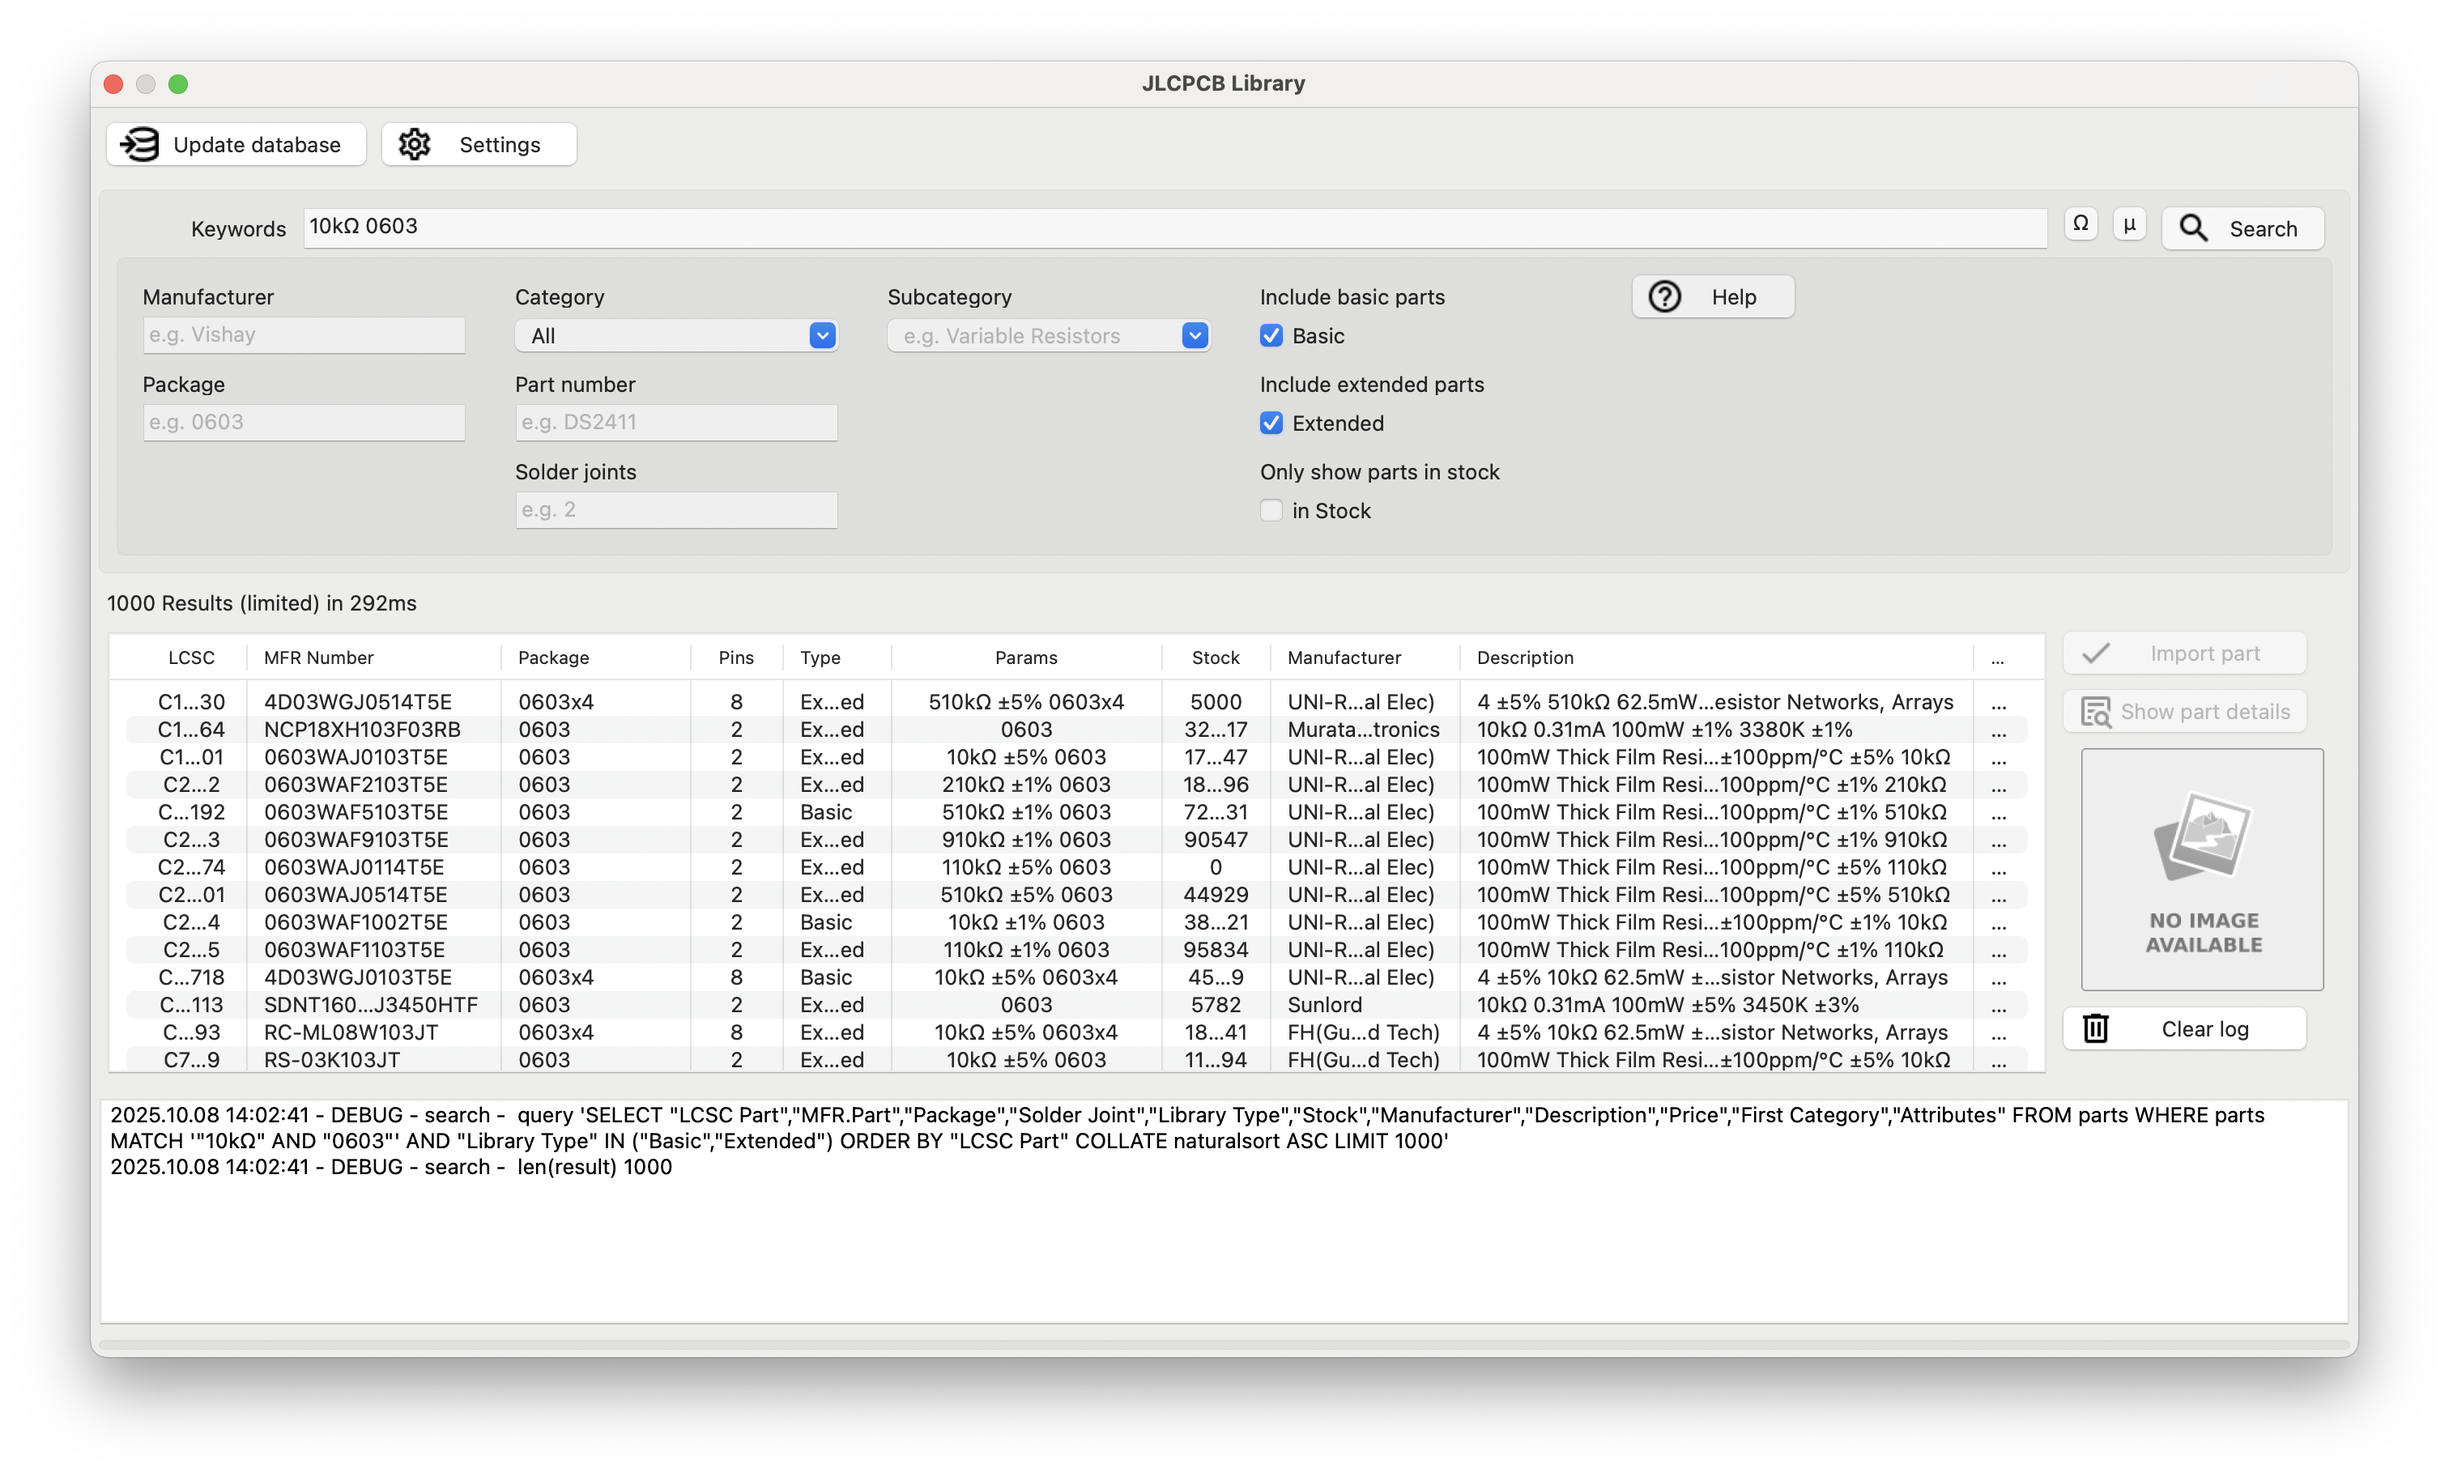
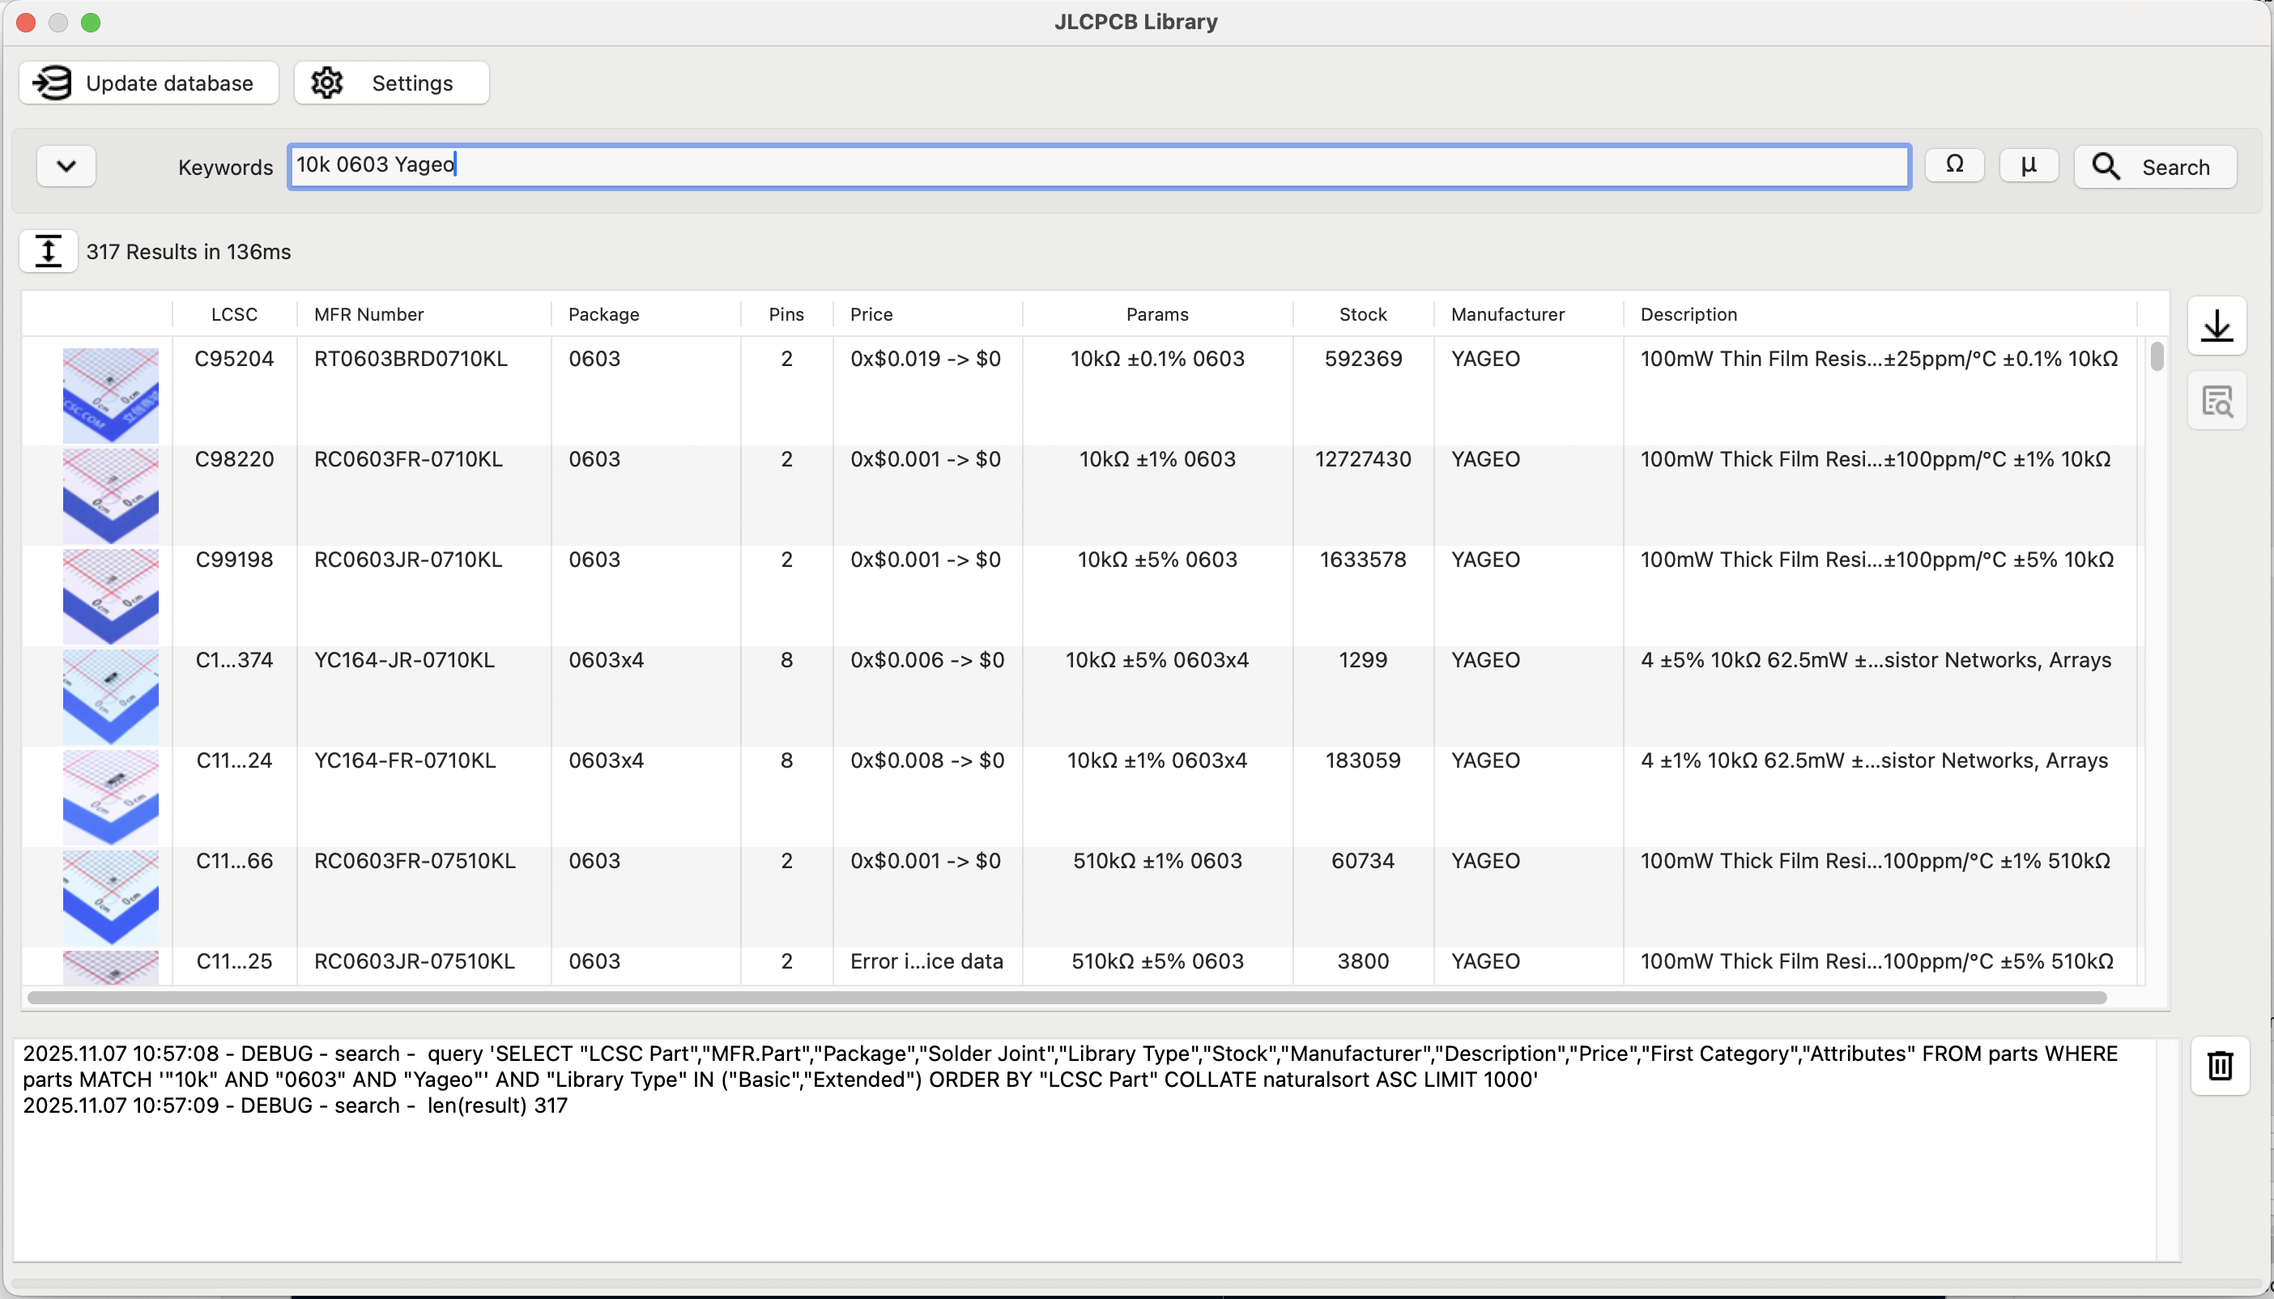
Update screenshots

diff --git a/partselector.py b/partselector.py
@@ -1154,7 +1154,7 @@ class PartSelectorDialog(wx.Dialog):
 
             main = self.part_list.GetMainWindow() # if hasattr(self.part_list, 'GetMainWindow') else self.part_list
             size = main.GetClientSize()
-            w, h = size.GetWidth(), size.GetHeight()
+            h = size.GetHeight()
            
             # Determine first and last visible rows by hit-testing points
             # Use a few sample x positions within the first column area
@@ -1235,9 +1235,6 @@ class PartSelectorDialog(wx.Dialog):
         except Exception:
             items = []
         try:
-            total_rows = len(self.part_list_model.get_all()) if hasattr(self.part_list_model, 'get_all') else -1
-            main = self.part_list.GetMainWindow() if hasattr(self.part_list, 'GetMainWindow') else self.part_list
-            view_h = main.GetClientSize().GetHeight()
             # Збираємо лише список видимих LCSC
             visible_lcsc = []
             for item in items:
@@ -1279,8 +1276,8 @@ class PartSelectorDialog(wx.Dialog):
             # DEBUG VISIBLE: disabled noisy logs
             # try:
             #     self.logger.info(
-            #         "[VISIBLE] top_index=%d visible=%d total_rows=%d viewport_h=%d ids=%s",
-            #         getattr(self, '_top_index', 0), len(visible_lcsc), total_rows, view_h, ",".join(visible_lcsc)
+            #         "[VISIBLE] top_index=%d visible=%d ids=%s",
+            #         getattr(self, '_top_index', 0), len(visible_lcsc), ",".join(visible_lcsc)
             #     )
             # except Exception:
             #     pass

diff --git a/README.md b/README.md
@@ -172,7 +172,7 @@ Allows the plugin UI to be started without KiCAD, enabling debugging with an IDE
 
 Standalone mode is under development.
 
-### Limitations
+### Standalone limitations
 
 - All board / footprint / value data are hardcoded stubs, see standalone_impl.py
 
